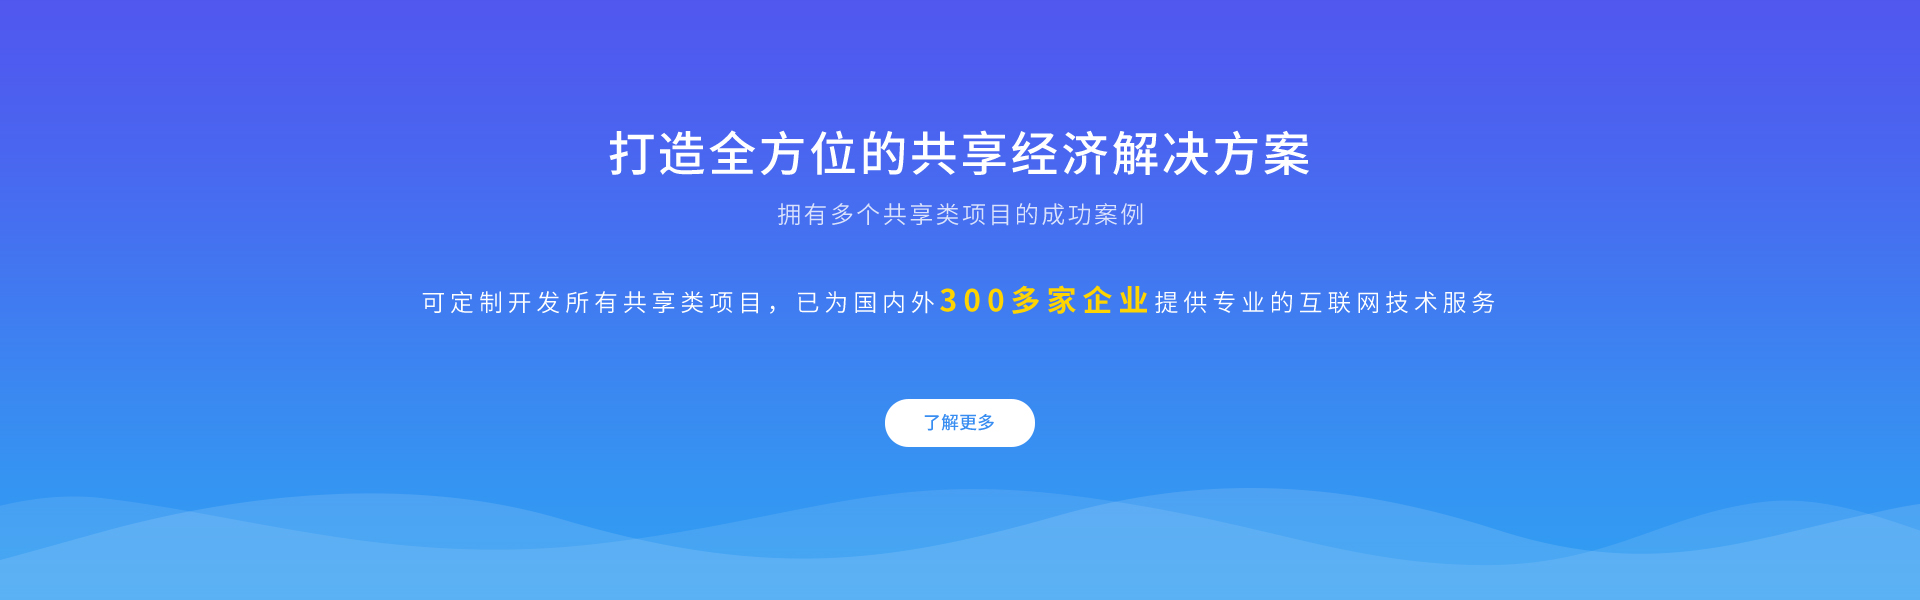
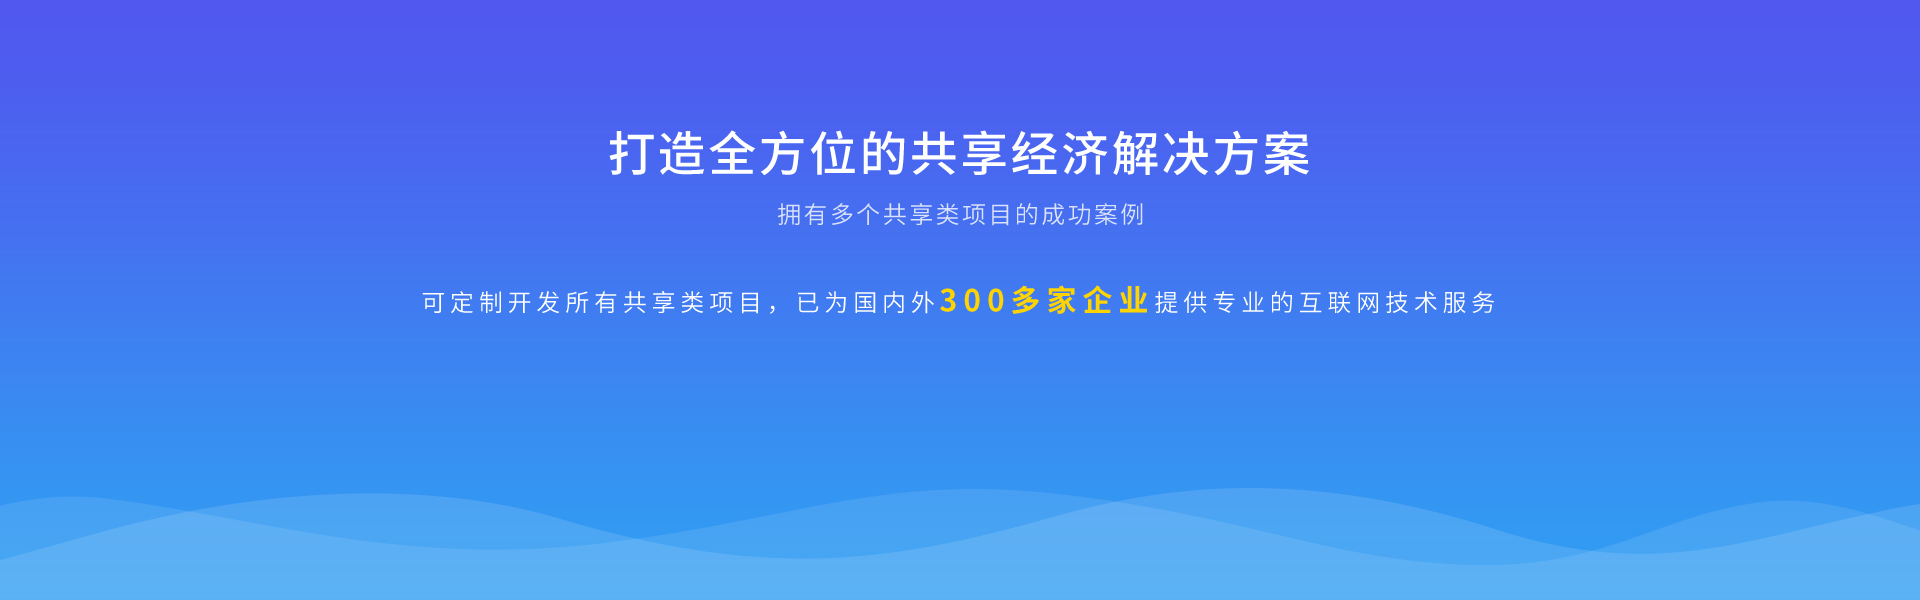
fds

Changed region(s): [[0.4375, 0.66, 0.5625, 0.75]]

diff --git a/sharingRide.html b/sharingRide.html
@@ -93,7 +93,7 @@
                     <div class="blank50"></div>
                     <div class="row textL wow fadeInLeft animated">
                         <div class="col-xs-2">
-                            <img src="./images/sharingRide/A_a1.png" alt="">
+                            <img src="./images/sharingRide/B_a1.png" alt="">
                         </div>
                         <div class="col-xs-10">
                             <p class="c333 f_24">实时定位</p>
@@ -102,7 +102,7 @@
                         </div>
                         <div class="blank50"></div>
                         <div class="col-xs-2">
-                            <img src="./images/sharingRide/A_a2.png" alt="">
+                            <img src="./images/sharingRide/B_a2.png" alt="">
                         </div>
                         <div class="col-xs-10">
                             <p class="c333 f_24">发布行程</p>
@@ -111,7 +111,7 @@
                         </div>
                         <div class="blank50"></div>
                         <div class="col-xs-2">
-                            <img src="./images/sharingRide/A_a3.png" alt="">
+                            <img src="./images/sharingRide/B_a3.png" alt="">
                         </div>
                         <div class="col-xs-10">
                             <p class="c333 f_24">多种支付</p>
@@ -120,7 +120,7 @@
                         </div>
                         <div class="blank50"></div>
                         <div class="col-xs-2">
-                            <img src="./images/sharingRide/A_a4.png" alt="">
+                            <img src="./images/sharingRide/B_a4.png" alt="">
                         </div>
                         <div class="col-xs-10">
                             <p class="c333 f_24">评价反馈</p>
@@ -149,7 +149,7 @@
                     <div class="blank50"></div>
                     <div class="row textL">
                         <div class="col-xs-2">
-                            <img src="./images/sharingRide/A_b1.png" alt="">
+                            <img src="./images/sharingRide/B_b1.png" alt="">
                         </div>
                         <div class="col-xs-10">
                             <p class="c333 f_24">发布行程</p>
@@ -158,7 +158,7 @@
                         </div>
                         <div class="blank50"></div>
                         <div class="col-xs-2">
-                            <img src="./images/sharingRide/A_b2.png" alt="">
+                            <img src="./images/sharingRide/B_b2.png" alt="">
                         </div>
                         <div class="col-xs-10">
                             <p class="c333 f_24">实时定位</p>
@@ -167,7 +167,7 @@
                         </div>
                         <div class="blank50"></div>
                         <div class="col-xs-2">
-                            <img src="./images/sharingRide/A_b3.png" alt="">
+                            <img src="./images/sharingRide/B_b3.png" alt="">
                         </div>
                         <div class="col-xs-10">
                             <p class="c333 f_24">行程服务</p>
@@ -176,7 +176,7 @@
                         </div>
                         <div class="blank50"></div>
                         <div class="col-xs-2">
-                            <img src="./images/sharingRide/A_b4.png" alt="">
+                            <img src="./images/sharingRide/B_b4.png" alt="">
                         </div>
                         <div class="col-xs-10">
                             <p class="c333 f_24">个人中心</p>
@@ -211,7 +211,7 @@
                     <div class="row textL">
                         <div class="col-sm-6 wow fadeInDown animated" >
                             <div class="col-xs-2">
-                                <img src="./images/sharingRide/A_c1.png" alt="">
+                                <img src="./images/sharingRide/B_c1.png" alt="">
                             </div>
                             <div class="col-xs-10">
                                 <p class="c333 f_24">订单管理</p>
@@ -222,7 +222,7 @@
 
                         <div class="col-sm-6 wow fadeInDown animated"  data-wow-delay="200ms">
                             <div class="col-xs-2">
-                                <img src="./images/sharingRide/A_c2.png" alt="">
+                                <img src="./images/sharingRide/B_c2.png" alt="">
                             </div>
                             <div class="col-xs-10">
                                 <p class="c333 f_24">财务管理</p>
@@ -234,7 +234,7 @@
 
                         <div class="col-sm-6 wow fadeInDown animated" data-wow-delay="400ms">
                             <div class="col-xs-2">
-                                <img src="./images/sharingRide/A_c3.png" alt="">
+                                <img src="./images/sharingRide/B_c3.png" alt="">
                             </div>
                             <div class="col-xs-10">
                                 <p class="c333 f_24">消息管理</p>
@@ -245,7 +245,7 @@
 
                         <div class="col-sm-6 wow fadeInDown animated" data-wow-delay="600ms">
                             <div class="col-xs-2">
-                                <img src="./images/sharingRide/A_c4.png" alt="">
+                                <img src="./images/sharingRide/B_c4.png" alt="">
                             </div>
                             <div class="col-xs-10">
                                 <p class="c333 f_24">后台管理</p>

diff --git a/index.html b/index.html
@@ -121,12 +121,29 @@
 		</nav>
 	</header>
 
-
+	<style>
+		.know_more_btn {
+			left: 50%;
+			transform: translateX(-50%);
+			padding: 4px 40px;
+			color: #388df1;
+			background-color: #ffffff;
+			display: inline-block;
+			line-height: 20px;
+			border: none;
+			border-radius: 100px;
+			bottom: 20%;
+			vertical-align: middle;
+		}
+	</style>
 	<!--1-->
-	<div class="togetherShareBanner class banner_bg relative" data-toggle="modal" data-target=".bs-example-modal-lg">
-		<a href="javascript:;">
+	<div class="togetherShareBanner class banner_bg relative">
 			<img src="./images/banner.jpg" alt="">
-		</a>
+			<button class="f_16 absolute  know_more_btn"  data-toggle="modal" data-target=".bs-example-modal-lg">
+				<div class="blank10"></div>
+					<div class="">了解更多</div>
+				<div class="blank10"></div>
+			</button>
 		<!-- <div class="absolute banner_title">
 			<div class="blank50 hidden-xs hidden-sm hidden-md"></div>
 			<div class="blank30 hidden-xs hidden-sm hidden-md"></div>
@@ -764,27 +781,27 @@
 
 	<!-- 弹出框 -->
 	<div class="modal fade bs-example-modal-lg" tabindex="-1" role="dialog" aria-labelledby="myLargeModalLabel">
-	<div class="modal-dialog modal-lg" style="width: 520px;" role="document">
+	<div class="modal-dialog modal-lg" role="document">
 		<div class="modal-content">
 			<div class="apply_modal_title">
 				<img src="./images/apply_logo.png" alt="">
 			</div>
 			<div class="apply_modal_form">
 				<div class="row">
-					<div class="col-sm-4 form_left f_16">姓名</div>
-					<div class="col-sm-8 form_right">
+					<div class="col-xs-4 form_left f_16">姓名</div>
+					<div class="col-xs-8 form_right">
 						<input type="text">
 					</div>
-					<div class="col-sm-4 form_left f_16">手机号码</div>
-					<div class="col-sm-8 form_right">
+					<div class="col-xs-4 form_left f_16">手机号码</div>
+					<div class="col-xs-8 form_right">
 						<input type="text">
 					</div>
-					<div class="col-sm-4 form_left f_16 form_textarea">备注</div>
-					<div class="col-sm-8 form_right form_textarea">
+					<div class="col-xs-4 form_left f_16 form_textarea">备注</div>
+					<div class="col-xs-8 form_right form_textarea">
 						<textarea name="" id="" cols="30" rows="10"></textarea>
 					</div>
-					<div class="col-sm-4 form_left f_16"></div>
-					<div class="col-sm-8 form_right">
+					<div class="col-xs-4 form_left f_16"></div>
+					<div class="col-xs-8 form_right">
 						<button class="btn">立即提交</button>
 					</div>
 				</div>

diff --git a/css/main2.css b/css/main2.css
@@ -912,6 +912,11 @@ button {
     .share_app::after {
         bottom: -20px !important;
     }
+    .know_more_btn {
+        padding: 0px 16px !important;
+        font-size: 12px !important;
+        bottom: 14% !important;
+    }
 }
 
 /*以i6p 为分界线，兼容以下屏幕*/
